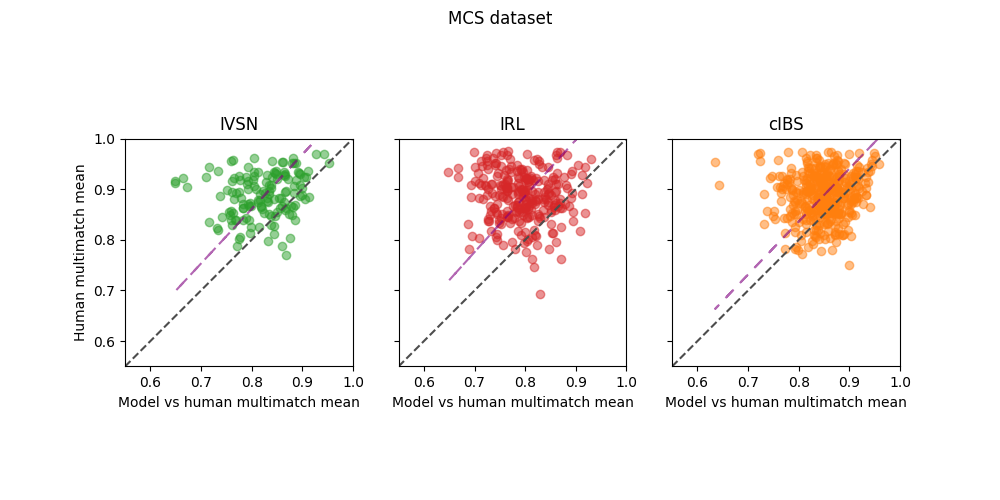
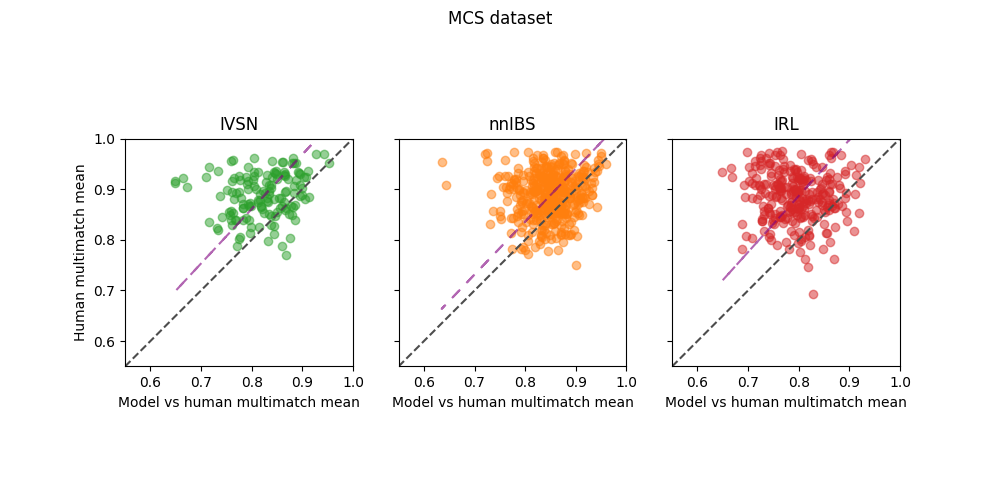
(Results) Plots rename cIBS -> nnIBS

diff --git a/Metrics/constants.py b/Metrics/constants.py
@@ -6,5 +6,5 @@ COCOSEARCH_SUBSET_SIZE = 500
 RANDOM_SEED = 1234
 
 # To ensure models have the same color in the plots across all datasets
-MODELS_COLORS = ['#2ca02c', '#d62728', '#ff7f0e']
+MODELS_COLORS = ['#2ca02c', '#ff7f0e', '#d62728']
 HUMANS_COLOR  = '#1f77b4'
